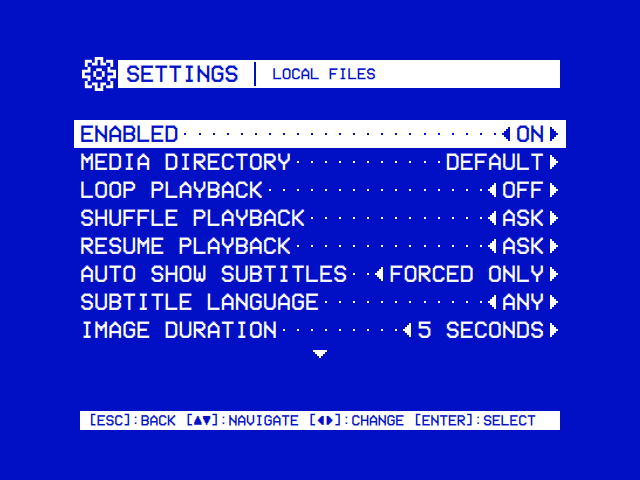
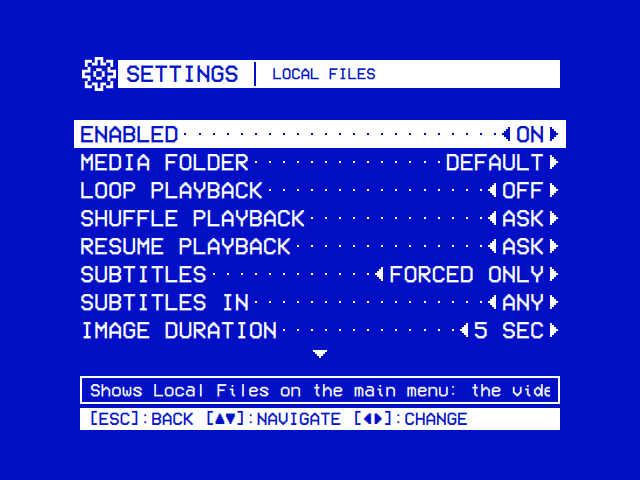
docs: retake the screenshots of the media modules after the menus' rework
Nine pictures of the media modules showed menus that no longer exist and
are taken again, each in the scene it showed before. Local Files' settings
page now reads Media Folder, Subtitles, Subtitles In and 5 sec, with the
row's help line. Emby's and Jellyfin's sign-in screens name the Server
Address, and Emby's marks the chosen method and has its status line under
the form. The video's own menu leads with Back to Local Files and Stop, to
Main Menu, over a generated test video. Playlists lists the playlists
first and the NEW rows last under their heading, and Add to Playlist
parts the playlists from the NEW rows with a line. Ambient:Mode's hint
reads [ENTER]:START, Scripts' reads [►]:ON MAIN MENU, and the NFC Reader's
page shows its cassette. The alt texts and the Emby caption in the tour
follow the new pictures. The other pictures of the area show screens that
are unchanged and are left as they were.

diff --git a/docs/wiki/Playlists.md b/docs/wiki/Playlists.md
@@ -6,7 +6,7 @@ The module is in [modules/playlists](https://github.com/mehmetraif/OSD-OS/tree/m
 
 <table>
 <tr><th width="50%">Playlists</th><th width="50%">An offline playlist</th></tr>
-<tr><td><img src="https://raw.githubusercontent.com/mehmetraif/OSD-OS/main/docs/screenshots/playlists.png" width="100%" alt="Playlists: New Online Playlist, New Offline Playlist, then Martial Arts Night 2/5 Offline, Anime Night 3/3 Offline and Sunday Matinee 6 Online" /></td><td><img src="https://raw.githubusercontent.com/mehmetraif/OSD-OS/main/docs/screenshots/playlist.png" width="100%" alt="The page of the offline playlist Martial Arts Night: Retry Downloads, Delete Playlist, then its videos, Ready, 29%, Queued or Not Allowed" /></td></tr>
+<tr><td><img src="https://raw.githubusercontent.com/mehmetraif/OSD-OS/main/docs/screenshots/playlists.png" width="100%" alt="Playlists: Martial Arts Night 2/5 Offline, Anime Night 3/3 Offline and Sunday Matinee 6 Online, then New Online Playlist and New Offline Playlist under the NEW heading" /></td><td><img src="https://raw.githubusercontent.com/mehmetraif/OSD-OS/main/docs/screenshots/playlist.png" width="100%" alt="The page of the offline playlist Martial Arts Night: Retry Downloads, Delete Playlist, then its videos, Ready, 29%, Queued or Not Allowed" /></td></tr>
 <tr><td>Online playlists, and offline ones with how many of their videos are on the device.</td><td>Each video downloads once, in the background.</td></tr>
 </table>
 
@@ -77,7 +77,7 @@ Select on a video opens its choices:
 
 <table>
 <tr><th width="50%">Adding videos</th><th width="50%">Add to Playlist</th></tr>
-<tr><td><img src="https://raw.githubusercontent.com/mehmetraif/OSD-OS/main/docs/screenshots/playlist-add.png" width="100%" alt="Add to Martial Arts Night: Jellyfin's Continue Watching, Next Up and Movies, Movies open on its films" /></td><td><img src="https://raw.githubusercontent.com/mehmetraif/OSD-OS/main/docs/screenshots/add-to-playlist.png" width="100%" alt="Add to playlist? for Mortal Kombat (1995).mp4: Martial Arts Night (Offline), Anime Night (Offline), Sunday Matinee, New Online Playlist, New Offline Playlist" /></td></tr>
+<tr><td><img src="https://raw.githubusercontent.com/mehmetraif/OSD-OS/main/docs/screenshots/playlist-add.png" width="100%" alt="Add to Martial Arts Night: Jellyfin's Continue Watching, Next Up and Movies, Movies open on its films" /></td><td><img src="https://raw.githubusercontent.com/mehmetraif/OSD-OS/main/docs/screenshots/add-to-playlist.png" width="100%" alt="Add to playlist? for Mortal Kombat (1995).mp4: Martial Arts Night (Offline), Anime Night (Offline), Sunday Matinee, a line, then New Online Playlist, New Offline Playlist below it" /></td></tr>
 <tr><td>Local Files, YouTube, Jellyfin and Emby in one tree. Select adds a video and stays, for the next.</td><td>From a module itself: a video's options (►), or ► on PLAY in Jellyfin and Emby.</td></tr>
 </table>
 

diff --git a/docs/wiki/Local-Files.md b/docs/wiki/Local-Files.md
@@ -49,7 +49,7 @@ Selecting **Media Folder** opens the folder picker, the same tree:
 
 <table>
 <tr><th width="50%">A module's settings</th><th width="50%">Picking a folder</th></tr>
-<tr><td><img src="https://raw.githubusercontent.com/mehmetraif/OSD-OS/main/docs/screenshots/module-settings.png" width="100%" alt="Local Files' settings: Enabled, Media Directory, Loop Playback, Shuffle Playback, Resume Playback, Auto Show Subtitles, Subtitle Language, Image Duration" /></td><td><img src="https://raw.githubusercontent.com/mehmetraif/OSD-OS/main/docs/screenshots/folder-picker.png" width="100%" alt="The folder picker: Use This Folder at the top of each folder" /></td></tr>
+<tr><td><img src="https://raw.githubusercontent.com/mehmetraif/OSD-OS/main/docs/screenshots/module-settings.png" width="100%" alt="Local Files' settings: Enabled, Media Folder, Loop Playback, Shuffle Playback, Resume Playback, Subtitles, Subtitles In, Image Duration 5 sec, and the help line of the row under the cursor" /></td><td><img src="https://raw.githubusercontent.com/mehmetraif/OSD-OS/main/docs/screenshots/folder-picker.png" width="100%" alt="The folder picker: Use This Folder at the top of each folder" /></td></tr>
 <tr><td>Local Files' settings.</td><td>USE THIS FOLDER picks the folder open, Default Folder the module's own.</td></tr>
 </table>
 
@@ -256,7 +256,7 @@ Positions are kept in `local_files_history.json` in the data folder, the 1000 mo
 
 <table>
 <tr><th width="50%">The video's menu</th><th width="50%">Main menu</th></tr>
-<tr><td><img src="https://raw.githubusercontent.com/mehmetraif/OSD-OS/main/docs/screenshots/player-menu.png" width="100%" alt="Local Files' player menu over the picture: Auto Show Subtitles, Subtitle Language, Loop Playback, Scaling, Add to Favorites, Play at Startup, Browse Local Files, Close Video" /></td><td><img src="https://raw.githubusercontent.com/mehmetraif/OSD-OS/main/docs/screenshots/main-menu-over-video.png" width="100%" alt="The main menu leading with the video playing behind it" /></td></tr>
+<tr><td><img src="https://raw.githubusercontent.com/mehmetraif/OSD-OS/main/docs/screenshots/player-menu.png" width="100%" alt="Local Files' menu for a video over the picture: Back to Local Files, Stop, to Main Menu, then Subtitles, Subtitles In, Loop Playback, Scaling and Add to Favorites" /></td><td><img src="https://raw.githubusercontent.com/mehmetraif/OSD-OS/main/docs/screenshots/main-menu-over-video.png" width="100%" alt="The main menu leading with the video playing behind it" /></td></tr>
 <tr><td>Back during a video opens its menu.</td><td>The main menu leads with the video: select takes it back to full screen.</td></tr>
 </table>
 

diff --git a/docs/wiki/Using-OSD-OS.md b/docs/wiki/Using-OSD-OS.md
@@ -158,7 +158,7 @@ In Netflix, Prime Video and YouTube a title has an info screen: a **PLAY ►** b
 
 <table>
 <tr><th width="50%">Options</th><th width="50%">Add to Playlist</th></tr>
-<tr><td><img src="https://raw.githubusercontent.com/mehmetraif/OSD-OS/main/docs/screenshots/options.png" width="100%" alt="Options for a video file: ADD TO FAVORITES, PLAY AT STARTUP, ADD TO PLAYLIST" /></td><td><img src="https://raw.githubusercontent.com/mehmetraif/OSD-OS/main/docs/screenshots/add-to-playlist.png" width="100%" alt="Add to playlist? for a video: the playlists, then NEW ONLINE PLAYLIST and NEW OFFLINE PLAYLIST" /></td></tr>
+<tr><td><img src="https://raw.githubusercontent.com/mehmetraif/OSD-OS/main/docs/screenshots/options.png" width="100%" alt="Options for a video file: ADD TO FAVORITES, PLAY AT STARTUP, ADD TO PLAYLIST" /></td><td><img src="https://raw.githubusercontent.com/mehmetraif/OSD-OS/main/docs/screenshots/add-to-playlist.png" width="100%" alt="Add to playlist? for a video: the playlists, a line, then NEW ONLINE PLAYLIST and NEW OFFLINE PLAYLIST below it" /></td></tr>
 <tr><td>► on any video.</td><td>From a video's options, or ► on PLAY in Jellyfin and Emby.</td></tr>
 </table>
 
@@ -245,7 +245,7 @@ During a video, ▲ or ▼ opens the deck's menu. Its top left names the audio t
 
 ### The video's own menu
 
-<img src="https://raw.githubusercontent.com/mehmetraif/OSD-OS/main/docs/screenshots/player-menu.png" width="100%" alt="Local Files' menu for a video over the picture: AUTO SHOW SUBTITLES FORCED ONLY, SUBTITLE LANGUAGE ANY, LOOP PLAYBACK OFF, SCALING DEFAULT, ADD TO FAVORITES, PLAY AT STARTUP, BROWSE LOCAL FILES, CLOSE VIDEO" />
+<img src="https://raw.githubusercontent.com/mehmetraif/OSD-OS/main/docs/screenshots/player-menu.png" width="100%" alt="Local Files' menu for a video over the picture: BACK TO LOCAL FILES under the cursor, STOP, TO MAIN MENU, then SUBTITLES FORCED ONLY, SUBTITLES IN ANY, LOOP PLAYBACK OFF, SCALING DEFAULT, ADD TO FAVORITES" />
 
 Local Files, YouTube and Playlists give a video a menu of its own:
 

diff --git a/docs/wiki/Jellyfin.md b/docs/wiki/Jellyfin.md
@@ -4,7 +4,7 @@ The Jellyfin module plays films, series and home videos from a [Jellyfin](https:
 
 <table>
 <tr><th width="50%">Jellyfin</th><th width="50%">Add to Playlist</th></tr>
-<tr><td><img src="https://raw.githubusercontent.com/mehmetraif/OSD-OS/main/docs/screenshots/jellyfin.png" width="100%" alt="Jellyfin: Connect to Server, with the Server URL field and the Quick Connect button" /></td><td><img src="https://raw.githubusercontent.com/mehmetraif/OSD-OS/main/docs/screenshots/add-to-playlist.png" width="100%" alt="Add to playlist? The playlists, then New Online Playlist and New Offline Playlist" /></td></tr>
+<tr><td><img src="https://raw.githubusercontent.com/mehmetraif/OSD-OS/main/docs/screenshots/jellyfin.png" width="100%" alt="Jellyfin: Connect to Server, with the Server Address field and the Quick Connect button" /></td><td><img src="https://raw.githubusercontent.com/mehmetraif/OSD-OS/main/docs/screenshots/add-to-playlist.png" width="100%" alt="Add to playlist? The playlists first, then a line and New Online Playlist, New Offline Playlist below it" /></td></tr>
 </table>
 
 ## What you need

diff --git a/docs/wiki/Emby.md b/docs/wiki/Emby.md
@@ -4,7 +4,7 @@ The Emby module plays films, series and home videos from an [Emby](https://emby.
 
 <table>
 <tr><th width="50%">Emby</th><th width="50%">Resume</th></tr>
-<tr><td><img src="https://raw.githubusercontent.com/mehmetraif/OSD-OS/main/docs/screenshots/emby.png" width="100%" alt="Emby: Connect to Server, with Local Server or Emby Connect, Server URL, Username, Password and Sign In" /></td><td><img src="https://raw.githubusercontent.com/mehmetraif/OSD-OS/main/docs/screenshots/resume.png" width="100%" alt="Resume playback? Resume from 1:12:34, or start from the beginning" /></td></tr>
+<tr><td><img src="https://raw.githubusercontent.com/mehmetraif/OSD-OS/main/docs/screenshots/emby.png" width="100%" alt="Emby: Connect to Server, with Your Server (marked) or Emby Connect, Server Address, Username, Password, Sign In, and the status line under the form" /></td><td><img src="https://raw.githubusercontent.com/mehmetraif/OSD-OS/main/docs/screenshots/resume.png" width="100%" alt="Resume playback? Resume from 1:12:34, or start from the beginning" /></td></tr>
 </table>
 
 ## What you need

diff --git a/docs/TOUR.md b/docs/TOUR.md
@@ -79,7 +79,7 @@ Every screen below is the app itself, running at 640×480. The film and YouTube 
 <table>
 <tr><th width="33%">Plex</th><th width="33%">Jellyfin</th><th width="33%">Emby</th></tr>
 <tr><td><img src="screenshots/plex-sign-in.png" width="100%" alt="Plex" /></td><td><img src="screenshots/jellyfin.png" width="100%" alt="Jellyfin" /></td><td><img src="screenshots/emby.png" width="100%" alt="Emby" /></td></tr>
-<tr><td>Sign in with a code at plex.tv/link.</td><td>Connect to a server with Quick Connect.</td><td>A server on your network, or Emby Connect.</td></tr>
+<tr><td>Sign in with a code at plex.tv/link.</td><td>Connect to a server with Quick Connect.</td><td>Your own server, at home or away, or Emby Connect.</td></tr>
 </table>
 
 Once signed in, each opens on the server's Continue Watching and its libraries. See [Modules](https://github.com/mehmetraif/OSD-OS/wiki/Modules) for everything they do.
